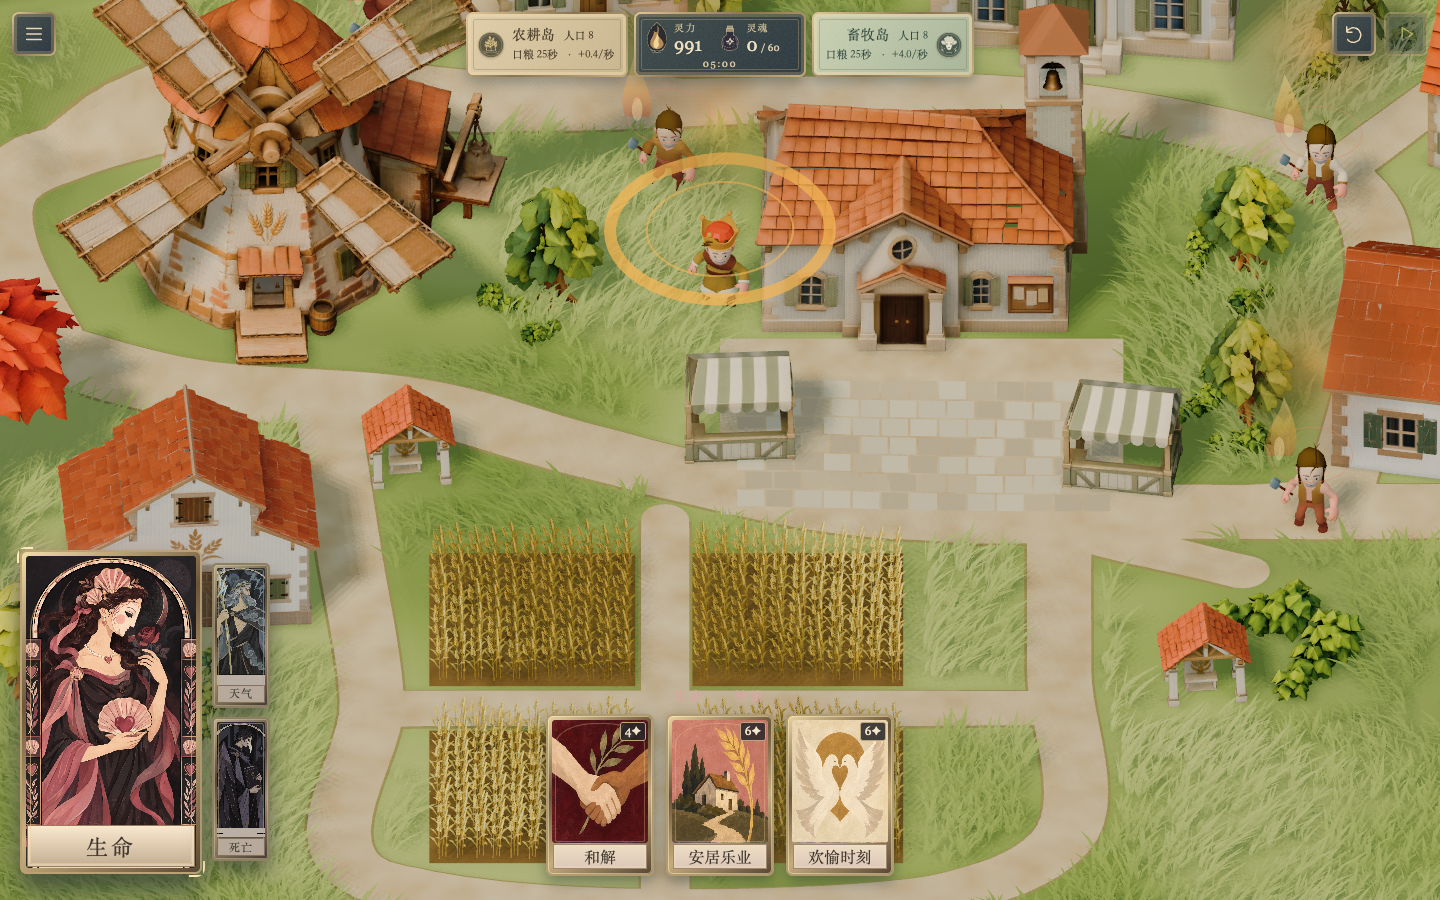
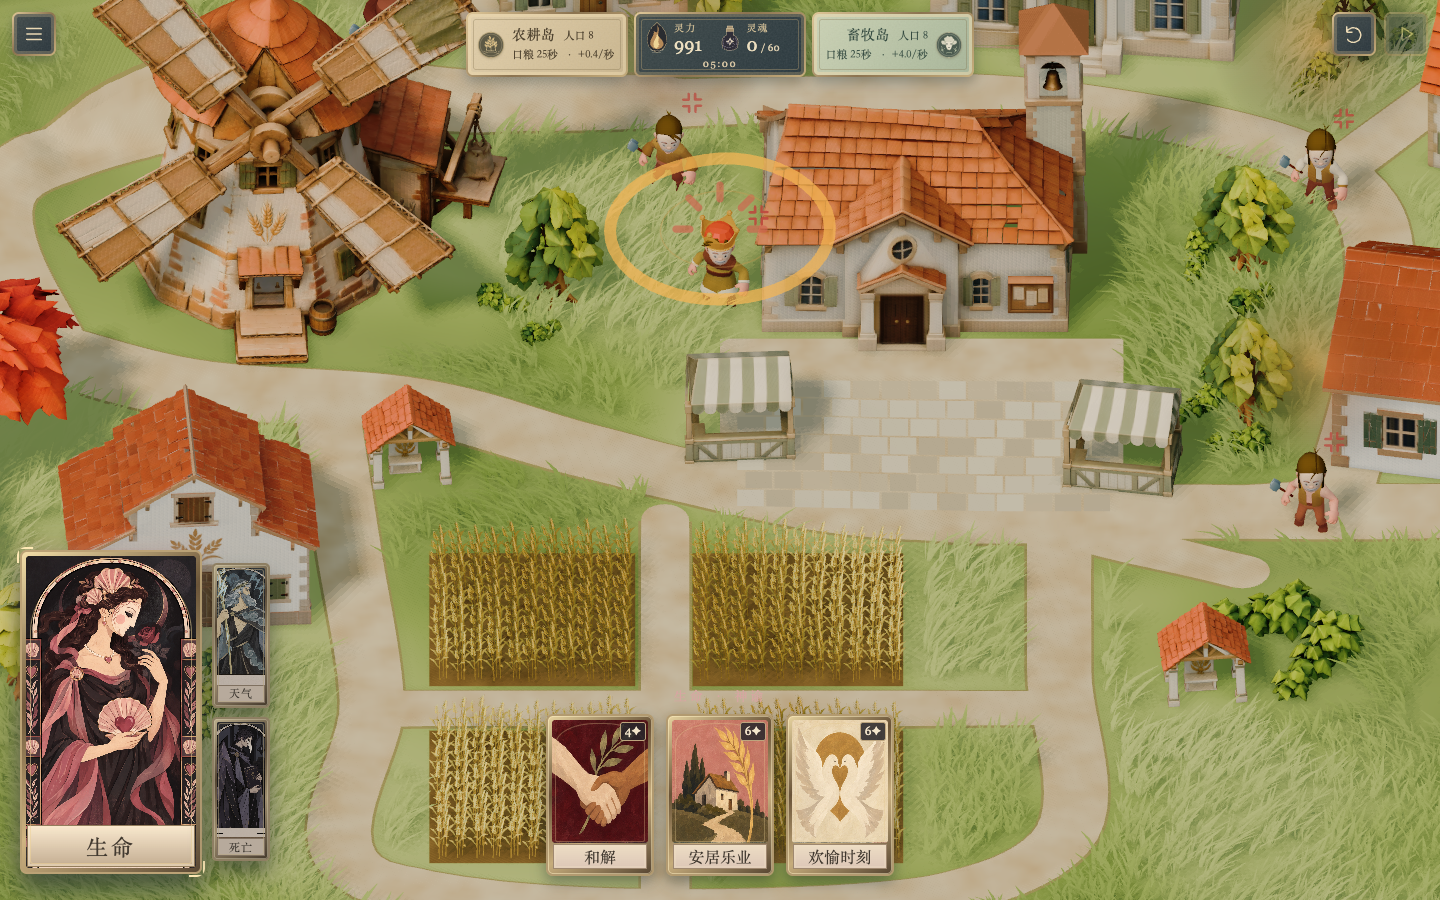
Replace rage flames with expressive anger cues

diff --git a/整理输出/game/spell-feedback.js b/整理输出/game/spell-feedback.js
@@ -5,9 +5,12 @@ function glow(g,x,y,r,color,alpha){if(r<=0)return;const grad=g.createRadialGradi
 function ring(g,v,p,r,color,alpha,width=2){g.globalAlpha=clamp(alpha);g.strokeStyle=color;g.lineWidth=width;g.beginPath();for(let i=0;i<=48;i++){const a=i/48*TAU,q=v.project({x:p.x+Math.cos(a)*r,y:p.y+Math.sin(a)*r});i?g.lineTo(q.x,q.y):g.moveTo(q.x,q.y);}g.stroke();}
 function heart(g,x,y,s,alpha){g.save();g.translate(x,y);g.scale(s,s);g.globalAlpha=clamp(alpha);g.fillStyle='#f0aaa9';g.beginPath();g.moveTo(0,.6);g.bezierCurveTo(-1,-.1,-.7,-1,0,-.4);g.bezierCurveTo(.7,-1,1,-.1,0,.6);g.fill();g.restore();}
 function flame(g,x,y,s,t,alpha){g.save();g.translate(x,y);const lean=Math.sin(t*7)*s*.22;g.globalAlpha=clamp(alpha);const grad=g.createLinearGradient(0,0,0,-s*2.8);grad.addColorStop(0,'#c14d27');grad.addColorStop(.45,'#ffac43');grad.addColorStop(1,'#ffeab0');g.fillStyle=grad;g.beginPath();g.moveTo(-s*.55,0);g.bezierCurveTo(-s,-s,lean-s*.2,-s*1.7,lean,-s*2.8);g.bezierCurveTo(lean+s*.8,-s*1.3,s*.9,-s*.3,s*.55,0);g.closePath();g.fill();ellipse(g,0,-s*.35,s*.25,s*.55,'#fff0bd',alpha);g.restore();}
+// Four bent strokes read as anger at both overview and close-up scales.
+function anger(g,x,y,size,alpha){g.save();g.translate(x,y);g.globalAlpha=clamp(alpha);g.strokeStyle='#bd443b';g.lineWidth=Math.max(1.5,size*.21);g.lineJoin='round';for(let i=0;i<4;i++){g.save();g.rotate(i*Math.PI/2);g.beginPath();g.moveTo(-size*.75,-size*.25);g.lineTo(-size*.28,-size*.25);g.lineTo(-size*.28,-size*.75);g.stroke();g.restore();}g.restore();}
 export function drawSpellFeedback(g,v,world,events,scale){
  const s=scale,time=world.time;g.save();g.lineCap='round';
  for(const e of events){const t=time-e.time,p=v.project(e);if(t<0)continue;
+  if(e.id==='rage'&&t<.65)for(const a of e.targets||[]){const actor=world.get(a.id);if(!actor||actor.dead)continue;const q=v.project(actor);for(let j=0;j<5;j++){const angle=-Math.PI+j*Math.PI/4;g.globalAlpha=1-t/.65;g.strokeStyle='#cf6650';g.lineWidth=Math.max(1,s*.08);g.beginPath();g.moveTo(q.x+Math.cos(angle)*s*(.25+t*.4),q.y+Math.sin(angle)*s*(.25+t*.4));g.lineTo(q.x+Math.cos(angle)*s*(.4+t*.4),q.y+Math.sin(angle)*s*(.4+t*.4));g.stroke();}}
   if(e.id==='royal-command'&&t<2.4){const king=world.get(e.kingId),origin=king||e;ring(g,v,origin,Math.min(8,t*6),'#f4b555',.8*(1-t/2.4),s*.13);for(const a of e.targets||[]){const actor=world.get(a.id);if(!actor||!actor.soldier)continue;const q=v.project(actor);glow(g,q.x,q.y-s,s*1.2,'#e98d49',.45*(1-t/2.4));}}
   if(e.id==='death'&&t<.65){const u=t/.65;if(e.human){g.save();g.translate(p.x,p.y);g.rotate(e.cause==='lightning'?0:u*.8);g.globalAlpha=1-u;g.fillStyle=e.cause==='lightning'?'#edfaff':'#a89c89';g.beginPath();g.arc(0,-s*.9,s*.18,0,TAU);g.fill();g.fillRect(-s*.17,-s*.7,s*.34,s*.6);g.restore();for(let j=0;j<8;j++)ellipse(g,p.x+Math.sin(j*4)*s*u,p.y-s*.5-Math.cos(j*3)*s*u,s*.05,s*.07,'#d2c3aa',1-u);}else{glow(g,p.x,p.y,s*(.5+u),'#9d83ac',.3*(1-u));}if(e.king){g.save();g.translate(p.x+s*u,p.y-s*(1-u));g.rotate(u*1.8);g.globalAlpha=1-u;g.fillStyle='#edbf51';g.beginPath();g.moveTo(-s*.3,0);g.lineTo(-s*.4,-s*.3);g.lineTo(-s*.12,-s*.15);g.lineTo(0,-s*.4);g.lineTo(s*.12,-s*.15);g.lineTo(s*.4,-s*.3);g.lineTo(s*.3,0);g.closePath();g.fill();g.restore();}}
   if(e.id==='infection'&&t<1&&e.from){const from=v.project(e.from);for(let j=0;j<5;j++){const u=clamp(t*1.4-j*.08);ellipse(g,from.x+(p.x-from.x)*u,from.y+(p.y-from.y)*u-s*Math.sin(u*Math.PI),s*.15,s*.12,'#94aa70',Math.sin(u*Math.PI)*.55);}}
@@ -35,9 +38,9 @@ export function drawSpellFeedback(g,v,world,events,scale){
  // State feedback follows living recipients, including infections acquired later.
  for(const a of world.entities){if(a.dead||a.inside)continue;const q=v.project(a),phase=time+a.id*.73;
   const weather=world.islands?.[a.country]?.weather;if(weather?.left>0){const u=(phase*.4)%1;if(weather.kind==='cold')ellipse(g,q.x+s*(.15+u*.5),q.y-s*.9-u*s*.2,s*(.08+u*.2),s*.1,'#e5ece5',.3*(1-u));if(weather.kind==='hot')ellipse(g,q.x+s*.25,q.y-s*(1-u*.5),s*.04,s*.09,'#b5d9de',Math.sin(u*Math.PI)*.7);}
-  if(a.king&&a.commanding){ring(g,v,a,.8,'#edb55b',.65,2);glow(g,q.x,q.y-s*1.2,s*1.1,'#ffad4b',.25+.08*Math.sin(time*5));}
+  if(a.king&&a.commanding){anger(g,q.x+s*.42,q.y-s*.15,Math.max(4,Math.min(12,s*.22)),.85);ring(g,v,a,.65,'#c9984d',.25+.12*Math.sin(time*4),1.5);}
   if(a.sick>0){for(let j=0;j<2;j++){const u=(phase*.4+j*.5)%1;ellipse(g,q.x+Math.sin(phase+j)*s*.35,q.y-u*s*1.4,s*(.2+u*.2),s*.2,'#859768',.3*(1-u));}}
-  else if(a.soldier&&!a.returning){flame(g,q.x-s*.35,q.y,s*.23,phase,.35);ring(g,v,a,.45,'#d4876a',.45,1);}
+  else if(a.soldier&&!a.returning){const pulse=.5+.5*Math.sin(phase*3);anger(g,q.x+s*.25,q.y-s*(.15+pulse*.03),Math.max(4,Math.min(12,s*.24)),.7+pulse*.3);glow(g,q.x,q.y-s*.45,s*.55,'#bf5140',.05+pulse*.08);}
   if(a.bless>0&&a.adult&&!a.sick&&!a.soldier){const u=(phase*.55)%1;glow(g,q.x,q.y-s*.4,s*.8,'#edcf79',.12);ellipse(g,q.x+Math.sin(phase)*s*.35,q.y-u*s*1.6,s*.07,s*.13,'#f6dda0',1-u);}
   if(a.joy>0&&a.adult){const u=(phase*.32)%1;heart(g,q.x+Math.sin(phase)*s*.25,q.y-s*(.9+u),s*.23,Math.sin(u*Math.PI)*.8);}
   if(a.kind==='undead'){ring(g,v,a,.4,'#b694d5',.4,1);glow(g,q.x,q.y-s*.5,s*.7,'#ad82d5',.2);}

diff --git a/整理输出/game/spell-effects.js b/整理输出/game/spell-effects.js
@@ -17,7 +17,6 @@ export class SpellEffects{
  if(e.id==='undead')for(const b of e.corpses||[]){const q=v.project(b);image('spirit',q.x,q.y-Math.min(1,t)*s,s*2.4,s*4*Math.min(1,t*2),fade);}
  if(e.id==='peace'){for(let j=0;j<3;j++){g.strokeStyle=['#e0d1a1','#bda572','#f0e2bb'][j];g.lineWidth=s*.12;g.beginPath();for(let k=0;k<40;k++){const a=k/39*6-3,x=p.x+a*s*(1+t),y=p.y+Math.sin(a*2+t*3+j)*s*.6-t*s;k?g.lineTo(x,y):g.moveTo(x,y);}g.globalAlpha=fade;g.stroke();}}
  if(e.id==='joy')for(let j=0;j<18;j++){const a=j*2.4;g.save();g.translate(p.x+Math.sin(a)*s*4,p.y+Math.cos(a)*s*2-t*s*1.5);g.rotate(t+j);g.globalAlpha=fade;g.fillStyle=j%2?'#cf9f9e':'#ead3be';g.beginPath();g.moveTo(0,0);g.bezierCurveTo(-s*.5,-s*.5,s*.6,-s*.9,s*.4,0);g.bezierCurveTo(s*.2,s*.4,0,s*.2,0,0);g.fill();g.restore();}
- if(e.id==='rage')for(const a of e.targets||[]){const actor=world.get(a.id);if(!actor?.soldier)continue;const q=v.project(actor);g.fillStyle='#ba746455';g.beginPath();g.moveTo(q.x-s*.5,q.y);g.quadraticCurveTo(q.x-s,q.y-s*2,q.x,q.y-s*3);g.quadraticCurveTo(q.x+s,q.y-s,q.x+s*.5,q.y);g.fill();}
  if(e.id==='plague')for(let j=0;j<12;j++){const q=v.project({x:e.x+Math.sin(j*7+t*.2)*3,y:e.y+Math.cos(j*4)*3});g.globalAlpha=fade*.18;g.fillStyle=j%2?'#84916d':'#697b65';g.beginPath();g.ellipse(q.x,q.y-t*s*.3,s*(.6+j%3*.2),s*.65,-.3,0,7);g.fill();}
  g.restore();}
  // Persistent conditions follow engine lifetime, not an independent visual timer.

diff --git a/整理输出/game/character-view.js b/整理输出/game/character-view.js
@@ -44,7 +44,7 @@ export class CharacterView {
   // Subtle body responses use game time, so pausing freezes every pose.
   const phase=time*3+e.id;
   this.model.rotation.z=e.sick>0?Math.sin(phase)*.055:0;
-  this.model.rotation.x=e.sick>0?.10:0;
+  this.model.rotation.x=e.sick>0?.10:e.soldier&&!e.returning?.08:0;
   this.model.position.y=e.joy>0&&!e.sick&&!e.soldier?Math.max(0,Math.sin(phase))*.045:0;
   this.crown.visible=!!e.king;if(e.king&&this.head){this.root.updateMatrixWorld(true);this.head.getWorldPosition(this.headPoint);this.root.worldToLocal(this.headPoint);this.crown.position.copy(this.headPoint);this.crown.position.y+=.32;this.crown.rotation.z=this.model.rotation.z;updateCrown(this.crown,e.commanding,time);}
   this.root.scale.setScalar(e.adult?.65:.4);this.previous={x:e.x,y:e.y};this.hp=e.hp;this.time=time;
